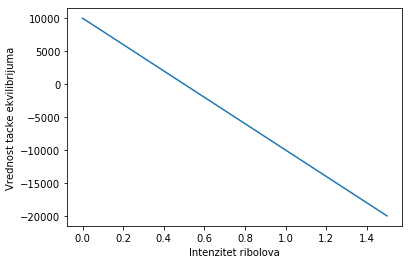
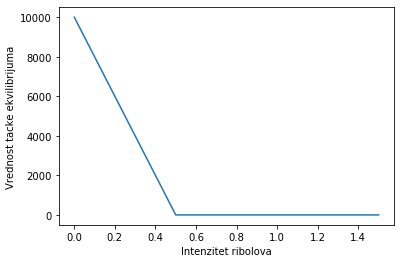
V3

diff --git a/Fishing.tex b/Fishing.tex
@@ -129,7 +129,7 @@
     N(t) = \frac{N(0)e^{(r-h)t}}{1+\frac{N(0)r}{K(r-h)}(e^{(r-h)t} - 1)}
 \end{equation}
 
-Нумеричка решења модела за параметре $[N(0)=[од 0 до 10000 са кораком 1000],  K=10000, r=0.5, h=0.25] $ можемо видети слици \ref{fishingmodel_view} која нам приказује промену величине популације рибе у периоду од 20 година.
+Нумеричка решења модела за параметре $[N(0)=[$од $0$ до $10000$ са кораком $1000],  K=10000, r=0.5, h=0.25] $ можемо видети слици \ref{fishingmodel_view} која нам приказује промену величине популације рибе у периоду од 20 година.
 
  \begin{figure}[h!]
 	\centering
@@ -150,7 +150,7 @@
      \left(E1 = 0,   E2 = \frac{K(r - h) }{r}\right)
 \end{equation}
 
-Када убацимо параметре из нумеричког приказа модела са слике \ref{fishingmodel_view} у формуле за тачке еквилибријума \ref{fishingequilibriumsol}, добијамо вредности $(E1=0, E2=5000)$. Видимо са графика да популација рибе зависно од почетне вредности тежи једном или другом еквилибријуму, када број рибе достигне еквилибријум он се више не мења и систем улази у стање равнотеже.Такође из формуле за тачке еквилибријума видима да уколико је интензитет риболова $h$ већи или једнак стопи раста рибље популације $r$, друга тачка еквилибријума постаје $E2=0$ јер иако генерално можемо имати негативан еквилибријум он нема смисла јер никада не можемо имати негативну популацију рибе већ негативност можемо интерпретирати као брзину пада ка 0. На слици \ref{equilibriumsgraph} можемо видети како се мењају тачке еквилибријума са променом интензитета риболова за фиксну стопу раста од 0.5.
+Када убацимо параметре из нумеричког приказа модела са слике \ref{fishingmodel_view} у формуле за тачке еквилибријума \ref{fishingequilibriumsol}, добијамо вредности $(E1=0, E2=5000)$. Видимо са графика да популација рибе зависно од почетне вредности тежи једном или другом еквилибријуму, када број рибе достигне еквилибријум он се више не мења и систем улази у стање равнотеже.Такође из формуле за тачке еквилибријума видимo да уколико је интензитет риболова $h$ већи или једнак стопи раста рибље популације $r$, друга тачка еквилибријума постаје $E2=0$ јер иако генерално можемо имати негативан еквилибријум он нема смисла јер никада не можемо имати негативну популацију рибе већ негативност можемо интерпретирати као брзину пада ка 0.На слици \ref{equilibriumsgraph} можемо видети како се мењају тачке еквилибријума са променом интензитета риболова за фиксну стопу раста од 0.5.
 
 \begin{figure}[h!]
 	\centering
@@ -159,7 +159,8 @@
 	\label{equilibriumsgraph}
 \end{figure}
 
-Примећујемо да се вредност тачке еквилибријума смањује линеарно са порастом интензитета риболова. За $r>h$ еквилибријум $E1=0$ је нестабилан јер за било који почетну популацију већу од нуле тежимо еквилибријуму $E2$ добијеном по формули који је стабилан за претпостављени однос $r>h$. Уколико је $r \leq h$ еквилибријум $E1=0$ постаје стабилан и за све почетне попилације рибе тежимо ка њему, а еквилибријум $E2$ постаје негативан, а самим тим и недостижан и нестабилан.
+Примећујемо да се вредност тачке еквилибријума смањује линеарно са порастом интензитета риболова. Стабилност еквилибријума одређујемо на основу понашања рибље популацијуе у његовој близини, уколико за вредности блиске еквилибријуму популација не тежи њему(нпр. почетна популација од 1 рибе за $r>h$ неће тежити нули иако јој је блиска па је нула нестабилан еквилибријум), док када популација тежи еквилибријуму за њему блиске вредности еквилибријум дефинишемо као стабилан. За $r>h$ еквилибријум $E1=0$ је нестабилан јер за било који почетну популацију већу од нуле тежимо еквилибријуму $E2$ добијеном по формули који је стабилан за претпостављени однос $r>h$. Уколико је $r = h$ заменом у једначину \ref{fishingmodeleq} добијамо да је $\frac{dN(t)}{dt} = rN(t)\left(-\frac{N(t)}{K}\right)$ тј. имамо негативан прираштај и популација ће тежити нули што видимо и одређивањем еквилибрујам формулом \ref{fishingequilibriumsol} чије је решење $(E1=0, E2=0)$, што значи да имамо један стабилан еквилибријум који је нула. За $r>h$ једначина \ref{fishingmodeleq} је негативна тј. имамо негативни прираштај и идемо ка истребљењу популације, а еквилибријум $E1=0$ постаје стабилан јер за све почетне популације рибе тежимо ка њему, док еквилибријум $E2$ постаје негативан, а самим тим и недостижан и нестабилан јер га ни за једну почетну популацију не можемо достићи.
+На крају ћемо издвојити посебан случај када је почетна популација једнака нули, тада увек тежимо еквилибријуму нуле без обзира на вредности осталих параметара што видимо и заменом у једначину \ref{fishingmodeleq} чије је решење нула што значи да се почетна популација не мења тј остаје 0.
 
 \section{Оптимална количина уловљене рибе}
 \label{sec:fishingoptimum}
@@ -177,7 +178,7 @@
      \frac{dY}{dh} = -\frac{K(2h - r) }{r}
 \end{equation}
 
-Решавањем нуле извода \ref{yielddiff} добијамо максималну количину уловљене рибе за интензитет риболова $h=\frac{r}{2}$. Применом претходно добијене формуле за $h$ добијамо да је тачка еквилибријума $E=\frac{K}{2}$ а количина уловљене рибе $Y=\frac{Kr}{4}$. 
+Изједначавањем извода \ref{yielddiff} са нулом добијамо максималну количину уловљене рибе за интензитет риболова $h=\frac{r}{2}$. Применом претходно добијене формуле за $h$ добијамо да је тачка еквилибријума $E=\frac{K}{2}$ а количина уловљене рибе $Y=\frac{Kr}{4}$. 
 
 \begin{figure}[h!]
 	\centering
@@ -192,7 +193,7 @@
 
 \section{Количина улова у односу на интензитет риболова}
 \label{sec:fishingintensity}
- Видели смо да у претходном поглављу да нам је један од најинтересантнијих параметра модела интензитет риболова, јер у некој реалној ситуацији тај параметар можемо да контролишемо док капацитет природног станишта и прираштај рибе не можемо. У овом делу ћемо помоћу експерименталних резултата продискутовати како промена интензитета риболова утиче на количину уловљене рибе. На сликама \ref{intensityincrease1} и \ref{intensityincrease2} можемо видети како се мења просечна количина уловљене рибе са променом интензитета риболова за редом почетне популације рибе од 100 и 10000, такође смо приказали графике за различите вредности стопе раста рибље популације.
+ Видели смо да у претходном поглављу да нам је један од најинтересантнијих параметра модела интензитет риболова, јер у некој реалној ситуацији тај параметар можемо да контролишемо док капацитет природног станишта и прираштај рибе не можемо. У овом делу ћемо помоћу експерименталних резултата продискутовати како промена интензитета риболова утиче на количину уловљене рибе. На сликама \ref{intensityincrease1} и \ref{intensityincrease2} можемо видети како се мења просечна количина уловљене рибе у периоду од 100 година са променом интензитета риболова за редом почетне популације рибе од 100 и 10000, такође смо приказали графике за различите вредности стопе раста рибље популације.
  
 \begin{figure}[h!]
 	\centering
@@ -208,7 +209,7 @@
 	\label{intensityincrease2}
 \end{figure}
 
-Са горе поменутих слика видимо да избор почетне популације рибе врло мало утиче на резултате и да су резултати скоро идентични за дужи временски период, чиме смо потврдили да за дужи временски период оптималан улов можемо посматрати на основу еквилибријума ка којима модели теже. Примећујемо да са порастом интензитета риболова расте количина уловљене рибе до неке тачке максимума након чега креће опадање и евентуално истребљење рибе, а самим тим и количина уловљене рибе тежи нули. Са графика можемо видети да је малопре поменута тачка максимума за $h=\frac{r}{2}$ што се слаже са резултатима добијеним у претходном делу, и да свако одступање од оптималног интензитета риболова доводи до смањења количине уловљене рибе.
+Са горе поменутих слика видимо да избор почетне популације рибе врло мало утиче на резултате и да су резултати скоро идентични за дужи временски период, чиме смо потврдили да за дужи временски период оптималан улов можемо посматрати на основу еквилибријума ка којима модели теже. Примећујемо да са порастом интензитета риболова расте количина уловљене рибе до неке тачке максимума након чега креће опадање и евентуално истребљење рибе, а самим тим и количина уловљене рибе тежи нули. Иако за $h = r$ количина уловљене рибе по формули \label{maxyeald} постаје 0, а за $h > r$ негативна што није могуће у реалности као код случаја са еквилибријумом већ количина уловљене рибе тежи нули, на графику ипак видимо позитивне вредности што објашњавамо уловом већ постојоће почетне популације рибе након чијег истребљења количина улова постаје нула. Са графика можемо видети да је малопре поменута тачка максимума за $h=\frac{r}{2}$ што се слаже са резултатима добијеним у претходном делу, и да свако одступање од оптималног интензитета риболова доводи до смањења количине уловљене рибе.
 
 \section{Закључак}
 \label{sec:final}

diff --git a/python-code/Equilibriums.py b/python-code/Equilibriums.py
@@ -9,7 +9,10 @@ intensities = []
 equilibriums = []
 for i in range(0, 31):
     intensities.append(h)
-    equilibriums.append((K*(r-h))/r)
+    eq = (K*(r-h))/r
+    if eq<0:
+        eq = 0
+    equilibriums.append(eq)
     h+=0.05
 plt.plot(intensities,equilibriums)
 plt.ylabel("Vrednost tacke ekvilibrijuma")
